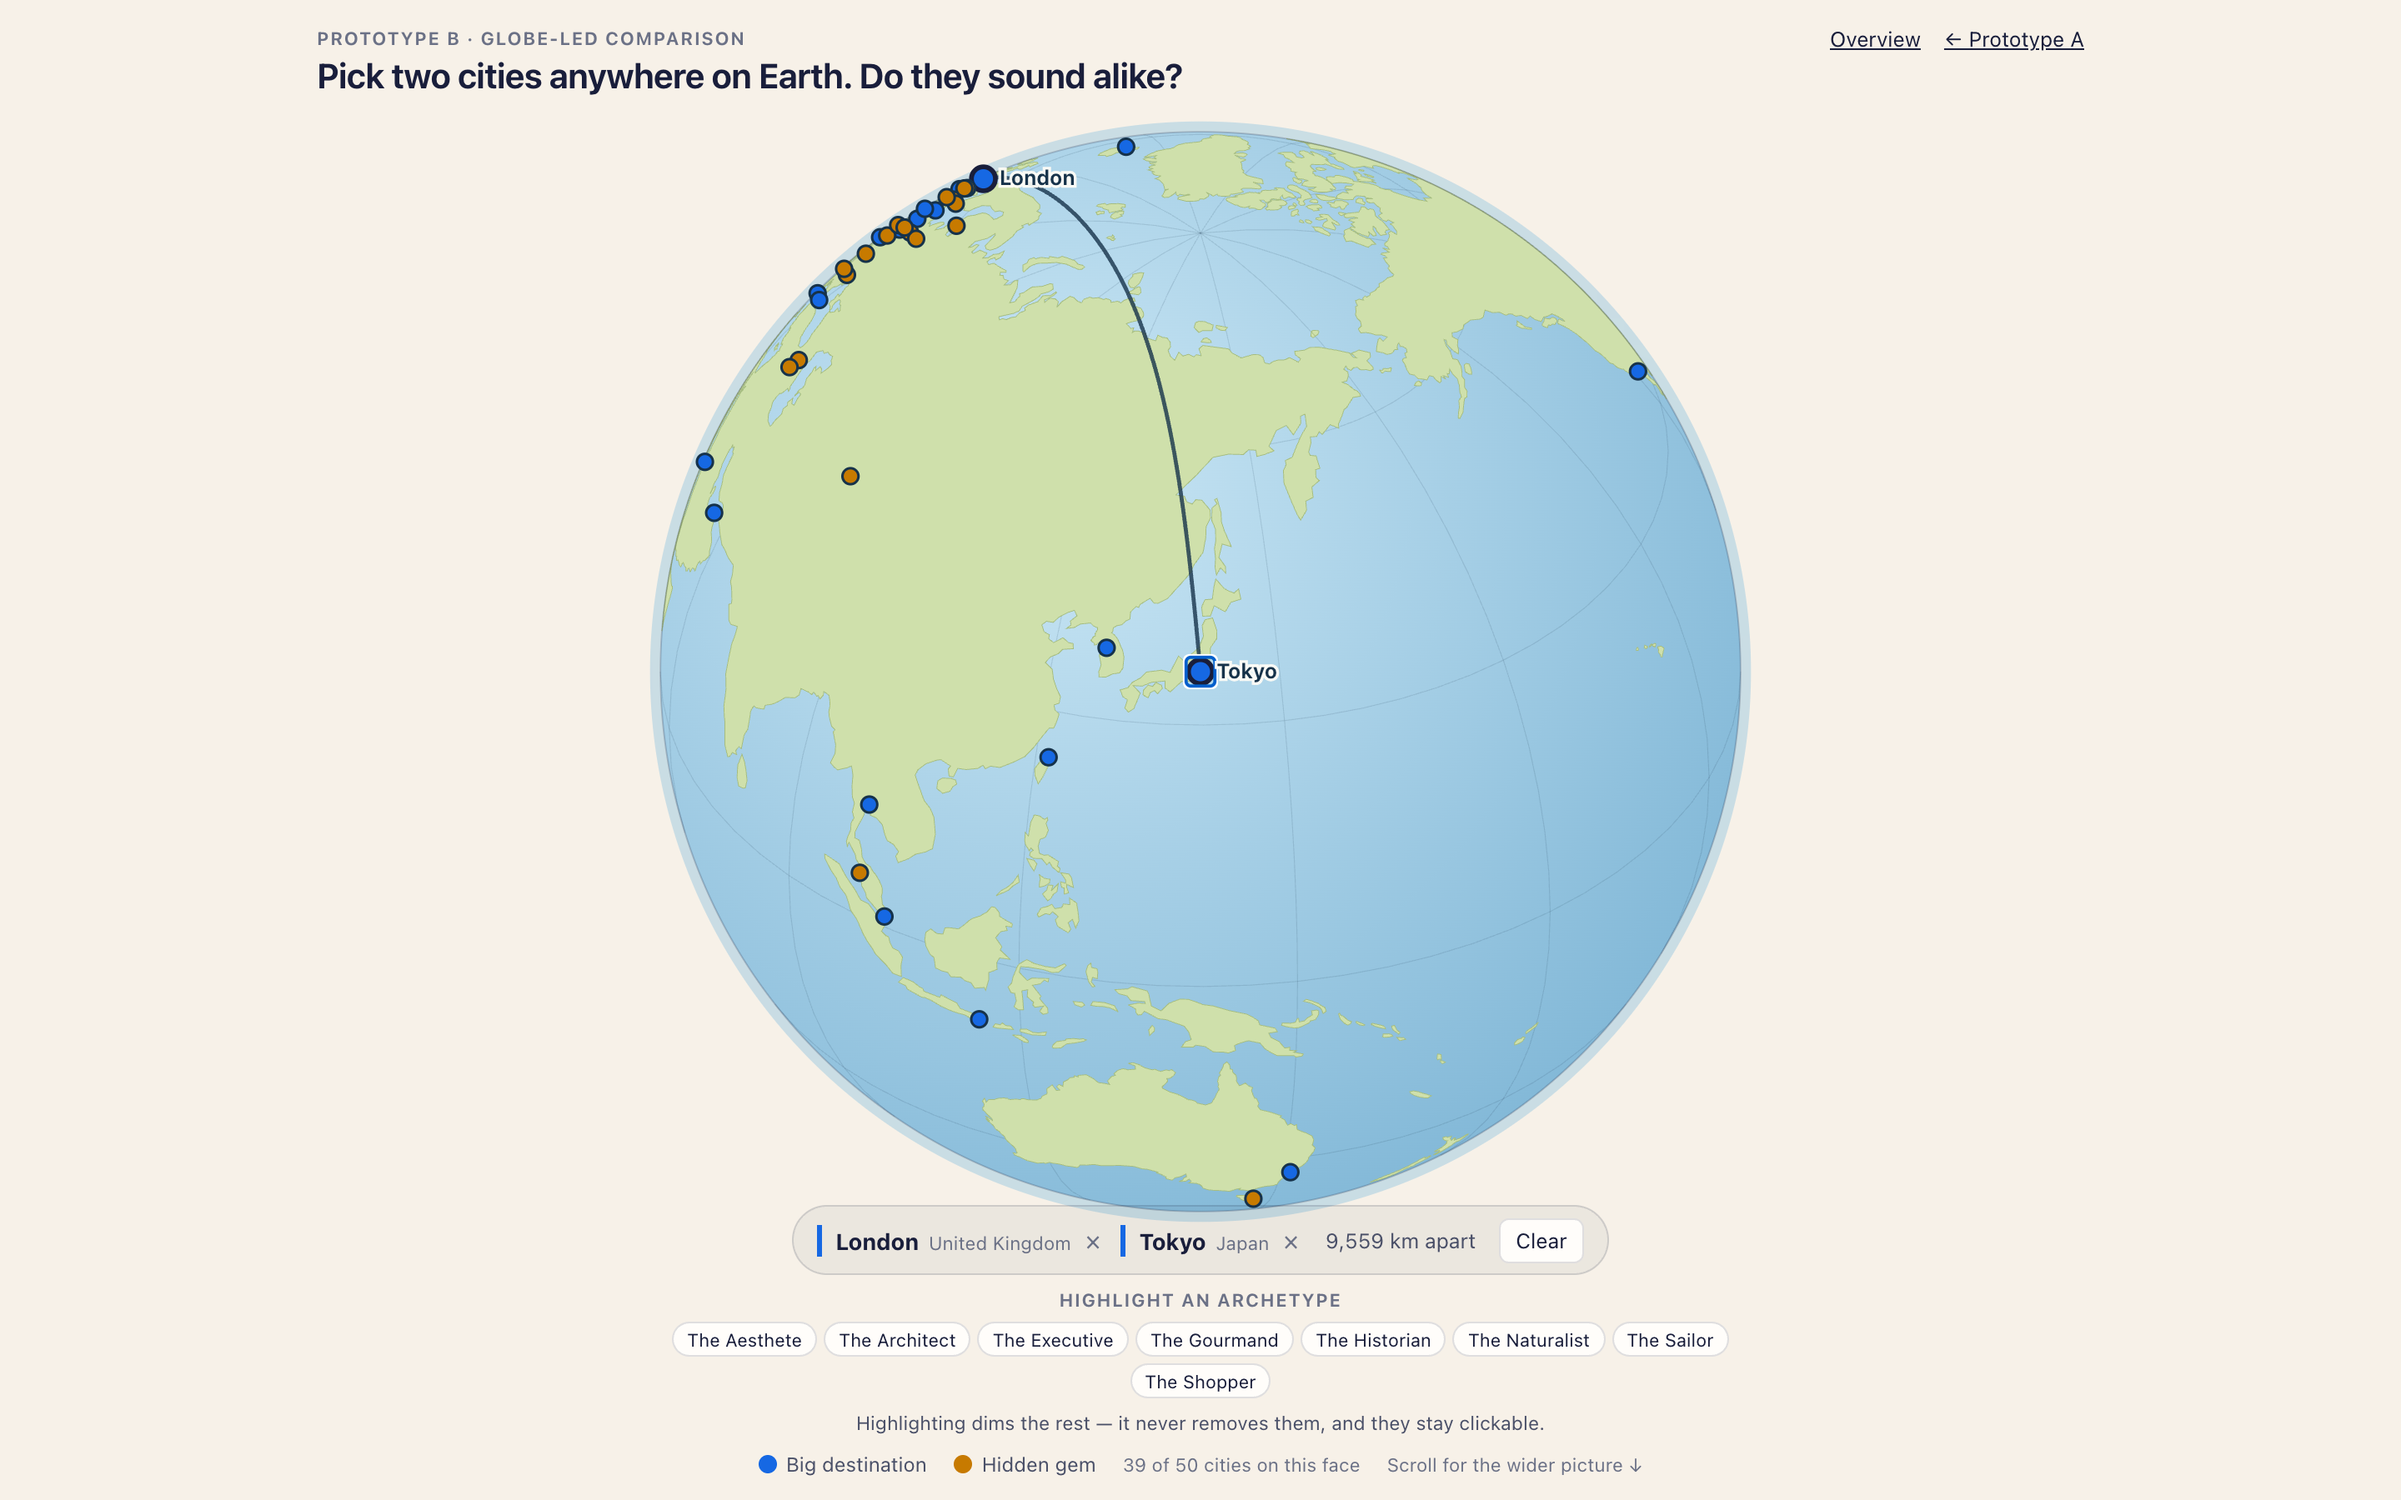
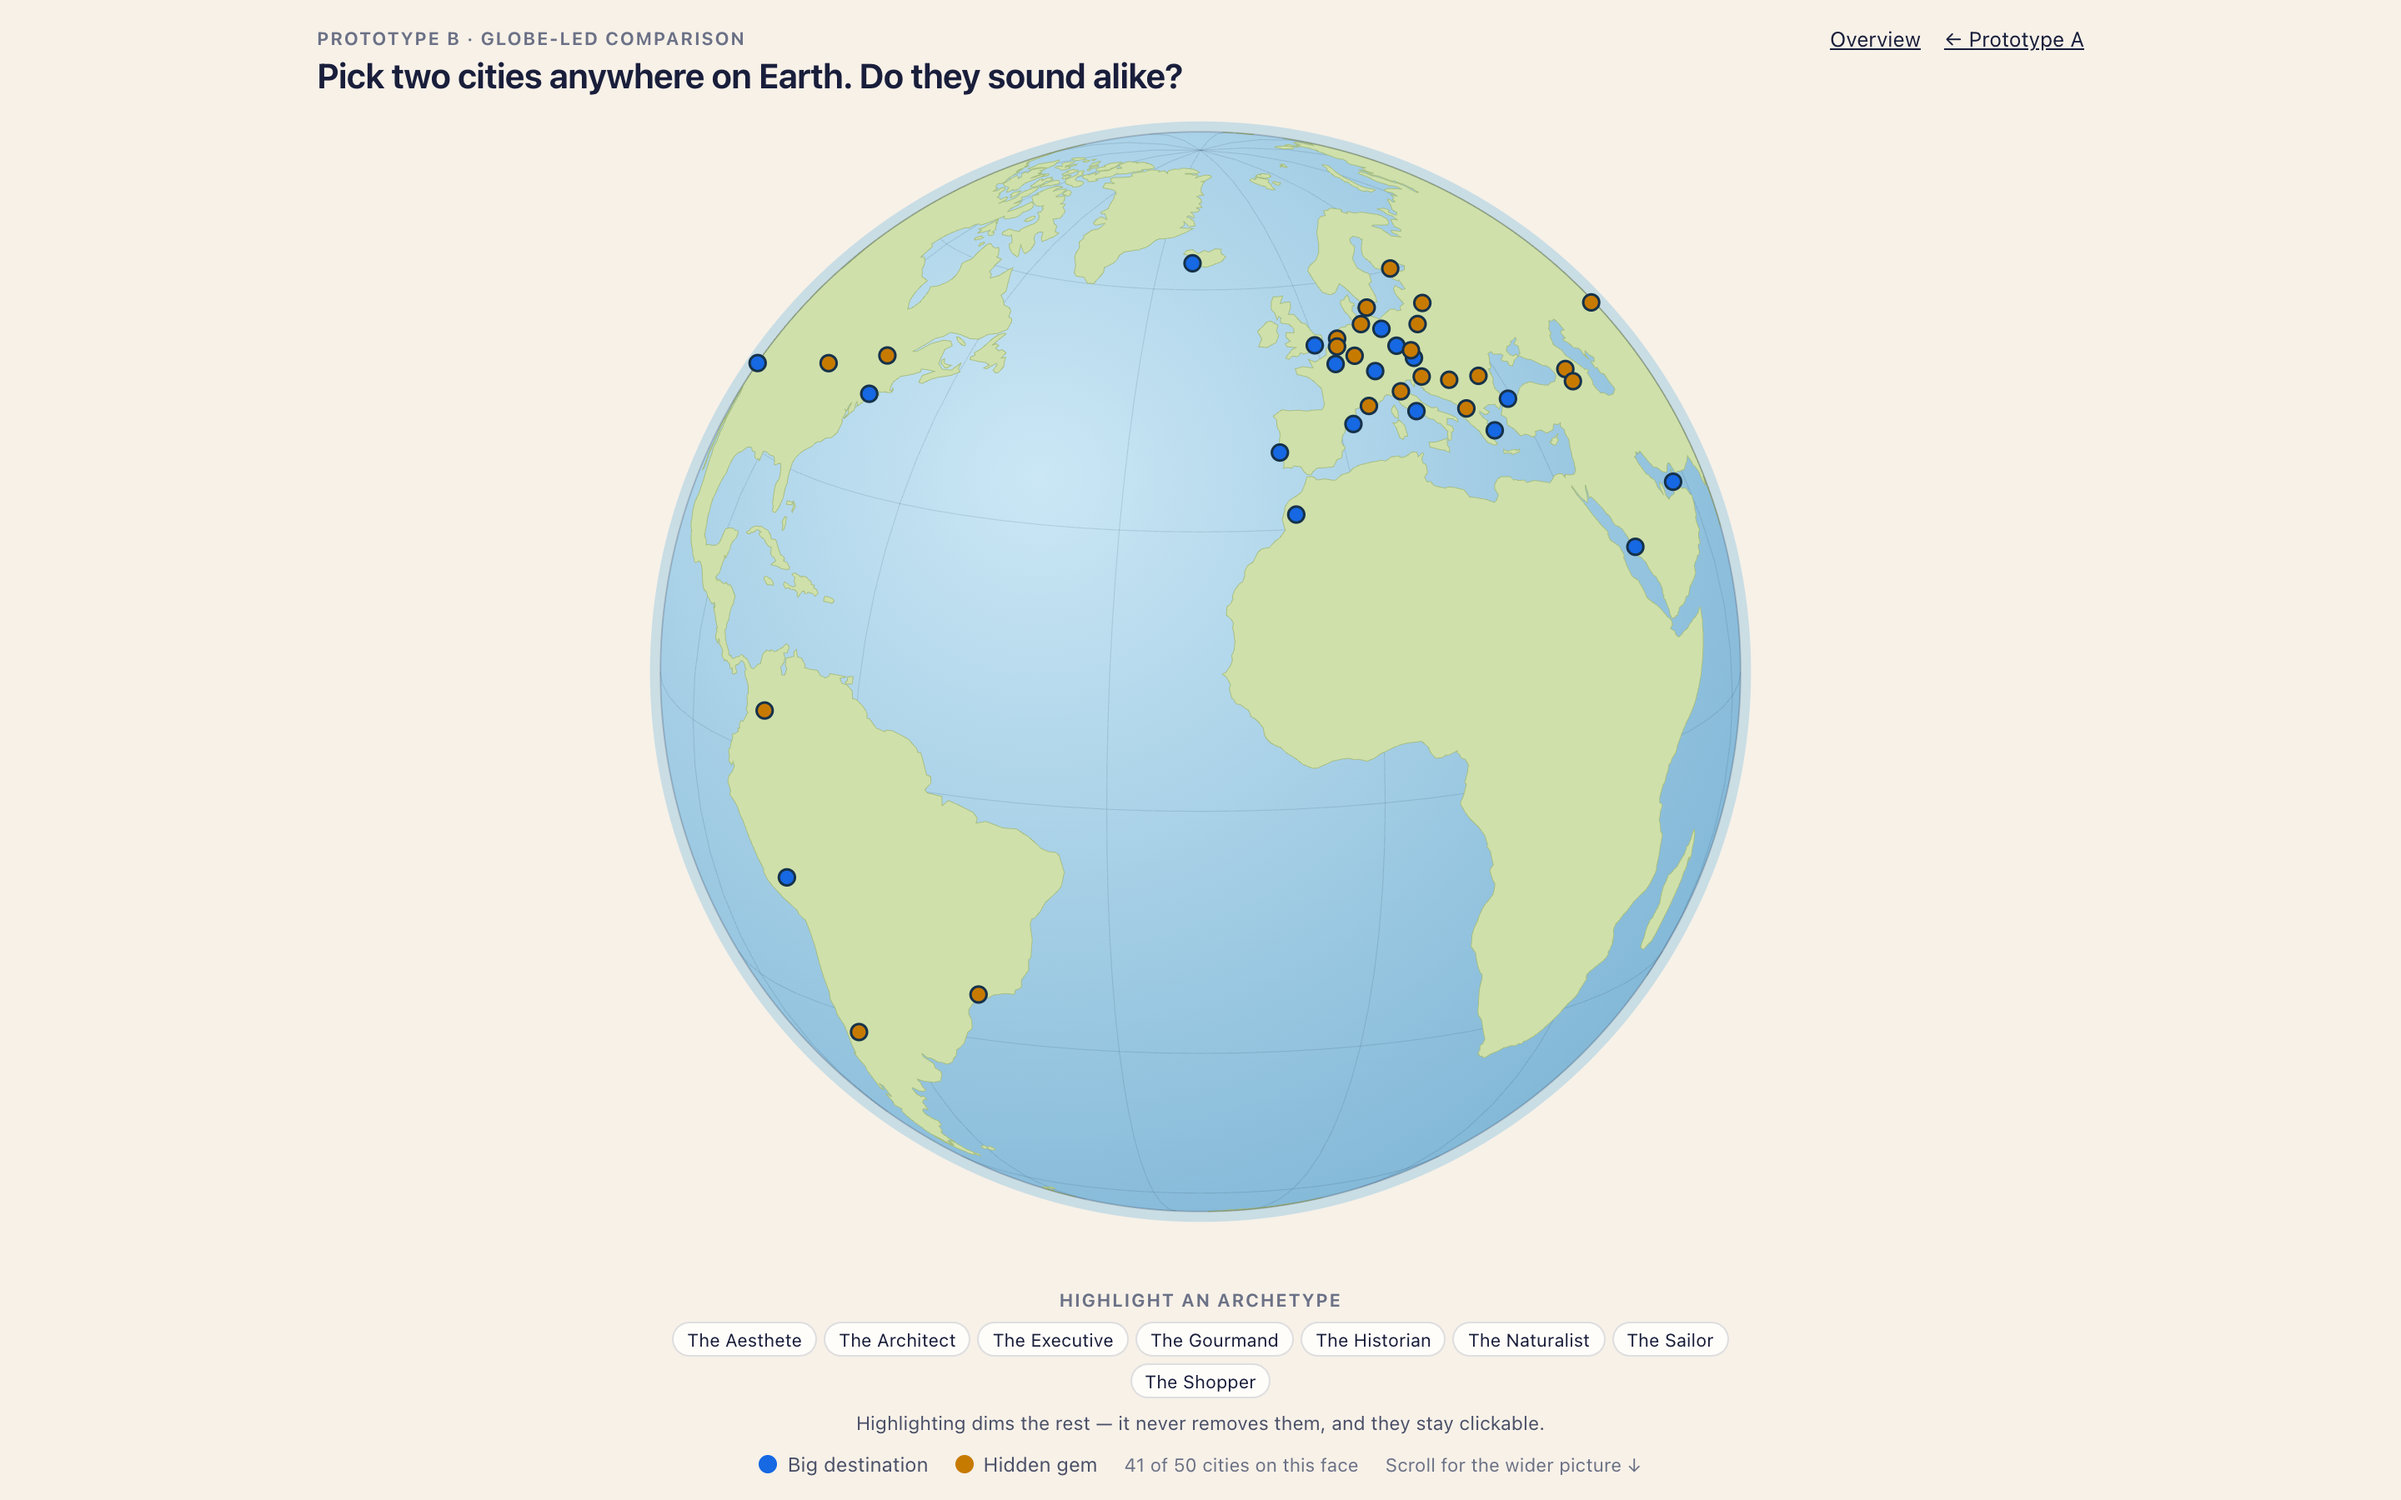
prototype B: drop the drag/click hint
Spinning a globe and clicking a marker need no instructions. The bar
keeps its 42px and loses its chrome when nothing is picked, so the
controls below do not jump when a selection appears.

diff --git a/src/routes/prototype-b/+page.svelte b/src/routes/prototype-b/+page.svelte
@@ -107,10 +107,8 @@
       <!-- Selection sits directly under the globe: it is click feedback, so it
            has to stay next to the thing being clicked. Fixed min-height so the
            page does not jump as picks come and go. -->
-      <div class="selected-bar" aria-live="polite">
-        {#if picks.length === 0}
-          <p class="note"><strong>Drag to spin.</strong> Click a city to select — pick two to compare.</p>
-        {:else}
+      <div class="selected-bar" class:empty={picks.length === 0} aria-live="polite">
+        {#if picks.length > 0}
           <ul class="picklist">
             {#each picks as name (name)}
               {@const c = byName.get(name)}
@@ -293,11 +291,16 @@
        hint text, and the bar is bottom-anchored, so any height change nudges
        it. Both states are one line, so a fixed height is safe here. */
     height: 42px;
+    transition: background-color 120ms, border-color 120ms;
     padding: 6px 14px;
     border: 1px solid var(--border);
     border-radius: 999px;
     background: var(--wash);
   }
+  /* Nothing picked: the bar keeps its height so the controls below never
+     shift, but shows no chrome — spinning and clicking need no instructions. */
+  .selected-bar.empty { background: none; border-color: transparent; }
+
   .picklist { list-style: none; margin: 0; padding: 0; display: flex; flex-wrap: wrap; gap: 10px; }
   .picklist li {
     display: flex; align-items: baseline; gap: 6px;
